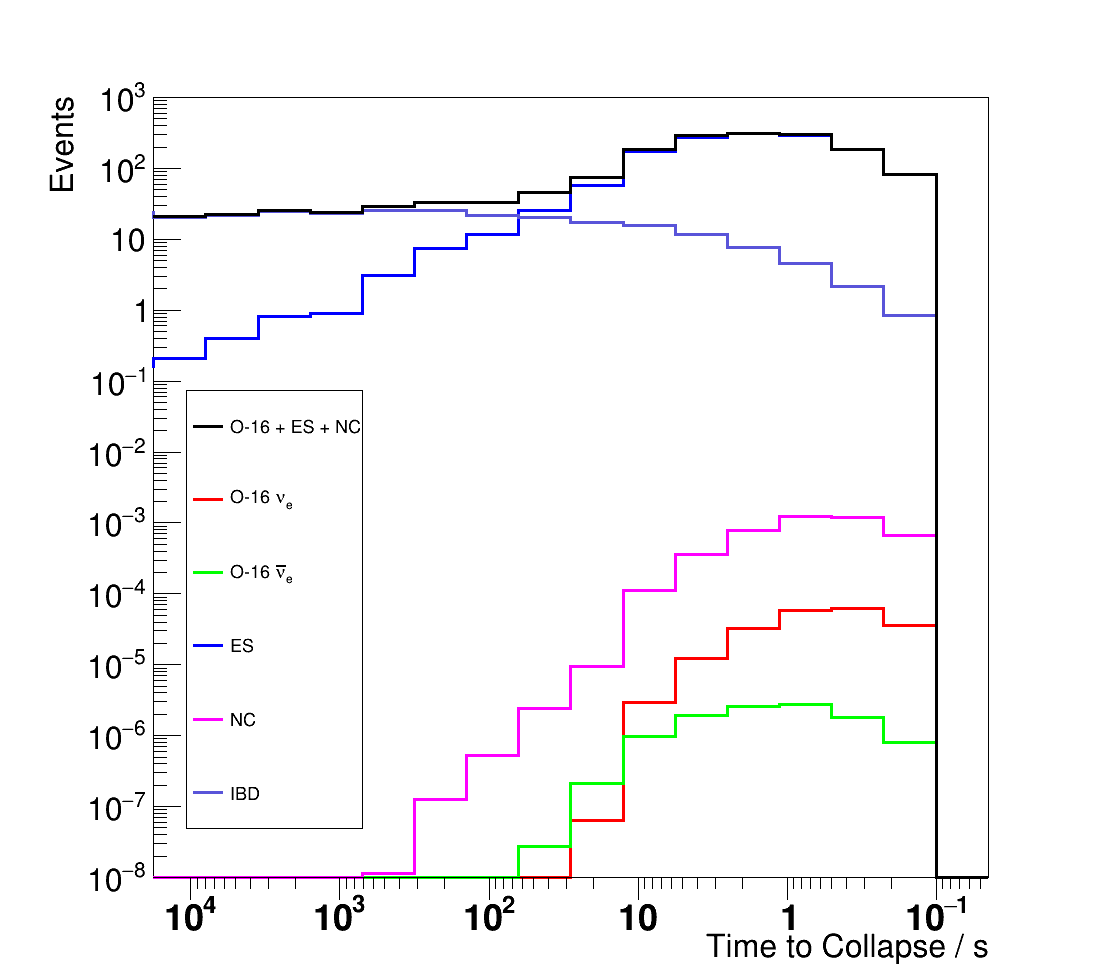
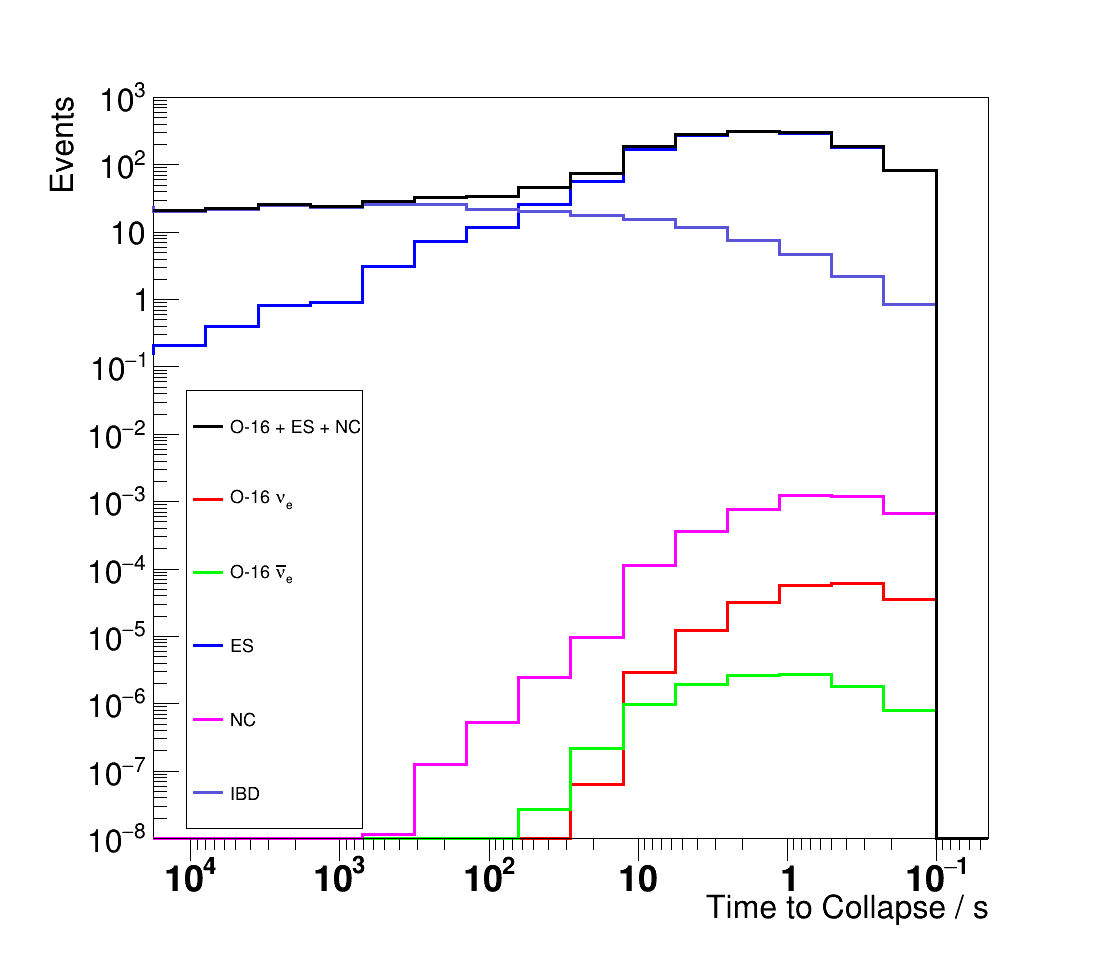
completed energy distribution modification

diff --git a/src/drawHistograms.C b/src/drawHistograms.C
@@ -8,8 +8,11 @@
 #define JUNO_INVERTED_PATH "../output/ROOT/JUNO_inverted.root"
 #define HYPERK_NORMAL_PATH "../output/ROOT/HYPERK_normal.root"
 #define HYPERK_INVERTED_PATH "../output/ROOT/HYPERK_inverted.root"
+// used when scaling old configs to new ones
+#define DUNE_SCALE (40.0/17.0)
+#define JUNO_SCALE (20.0/50.0)
 
-std::vector<TH1D*> * getHists(TFile * file, const std::string* histNames, int numHists){
+std::vector<TH1D*> * getHists(TFile * file, const std::string* histNames, int numHists, double scale){
     std::vector<TH1D*> * ret = new std::vector<TH1D*>;
     for(int i = 0; i < numHists; i++){
         auto object = file->Get(histNames[i].c_str()); 
@@ -18,6 +21,7 @@ std::vector<TH1D*> * getHists(TFile * file, const std::string* histNames, int nu
             exit(1); 
         } 
         auto histo = dynamic_cast<TH1D*>(object); 
+        histo->Scale(scale);
         if (!histo) {
             cerr << "object is not a TH1D\n"; 
             exit(1); 
@@ -25,6 +29,11 @@ std::vector<TH1D*> * getHists(TFile * file, const std::string* histNames, int nu
         ret->push_back(histo);
     }
     return ret;
+}
+
+// overload method such that default scaling is 1
+std::vector<TH1D*> * getHists(TFile * file, const std::string* histNames, int numHists){
+    return getHists(file, histNames, numHists, 1.0);
 }
 
 std::vector<Color_t> color;
@@ -57,11 +66,13 @@ std::vector<std::string> label_HYPERK_inverted;
 
 
 // main macro starts here
-void drawHistograms(){
+void drawHistograms(int use_scaling){
     double DUNE_normal_integral, DUNE_inverted_integral, JUNO_normal_integral, JUNO_inverted_integral, HYPERK_normal_integral, HYPERK_inverted_integral;
     // global variables
     TGaxis::SetMaxDigits(2);
-
+    double dune_scale = use_scaling? DUNE_SCALE : 1.0;
+    double juno_scale = use_scaling? JUNO_SCALE : 1.0;
+    double hyperk_scale = 1.0; // no hyperk scale
     // 12 solar masses SN no oscillation
     
     histNames[0] = "amu_energyIntegral";
@@ -94,7 +105,7 @@ void drawHistograms(){
     histNames[3] = "es_th0_energyIntegral";
 
     file = new TFile(DUNE_NORMAL_PATH);
-    histograms_DUNE_normal = getHists(file, histNames, 4);
+    histograms_DUNE_normal = getHists(file, histNames, 4, dune_scale);
 
     /*
     path = ( "../output/histograms/15sol_DUNE_normal_sum.png");
@@ -134,7 +145,7 @@ void drawHistograms(){
     // DUNE, inverted ordering, smeared, 15 solar masses
     // same histogram names as normal ordering
     file = new TFile(DUNE_INVERTED_PATH);
-    histograms_DUNE_inverted = getHists(file, histNames, 4);
+    histograms_DUNE_inverted = getHists(file, histNames, 4, dune_scale);
 
     /*
     path = ( "../output/histograms/15sol_DUNE_inverted_sum.png");
@@ -178,7 +189,7 @@ void drawHistograms(){
     histNames[5] = "ibd_th0_energyIntegral";
 
     file = new TFile(JUNO_NORMAL_PATH);
-    histograms_JUNO_normal = getHists(file, histNames, 6);
+    histograms_JUNO_normal = getHists(file, histNames, 6, juno_scale);
 
     /*
     path = ( "../output/histograms/15sol_JUNO_normal_sum.png");
@@ -221,7 +232,7 @@ void drawHistograms(){
 
     // JUNO, inverted ordering, smeared, 15 solar masses
     file = new TFile(JUNO_INVERTED_PATH);
-    histograms_JUNO_inverted = getHists(file, histNames, 6);
+    histograms_JUNO_inverted = getHists(file, histNames, 6, juno_scale);
     /*
     path = ( "../output/histograms/15sol_JUNO_inverted_sum.png");
     gROOT->ProcessLine(".x drawSingleSnowHist.C(sum, &path)");
@@ -259,7 +270,7 @@ void drawHistograms(){
 
     // Hyper-K, normal ordering, smeared, 15 solar masses
     file = new TFile("../output/ROOT/HYPERK_normal.root");
-    histograms_HYPERK_normal = getHists(file, histNames, 6);
+    histograms_HYPERK_normal = getHists(file, histNames, 6, hyperk_scale);
     /*
     path = ( "../output/histograms/15sol_HYPERK_normal_sum.png");
     gROOT->ProcessLine(".x drawSingleSnowHist.C(sum, &path)");
@@ -298,7 +309,7 @@ void drawHistograms(){
 
     // Hyper-K, inverted ordering, smeared, 15 solar masses
     file = new TFile("../output/ROOT/HYPERK_inverted.root");
-    histograms_HYPERK_inverted = getHists(file, histNames, 6);
+    histograms_HYPERK_inverted = getHists(file, histNames, 6, hyperk_scale);
 
     /*
     path = ( "../output/histograms/15sol_HYPERK_inverted_sum.png");
@@ -350,4 +361,9 @@ void drawHistograms(){
     std::cout << "Sum normal: " << HYPERK_normal_integral << std::endl;
     std::cout << "Sum inverted: " << HYPERK_inverted_integral << std::endl;
     std::cout << std::endl;
+}
+
+void drawHistograms(){
+    // by default, dont use scaling
+    drawHistograms(0);
 }

diff --git a/src/drawBackground.C b/src/drawBackground.C
@@ -10,6 +10,10 @@ sigmaUp[1][1] = 20;
 sigmaUp[2][0] = 20; 
 sigmaUp[2][1] = 20;
 
+double dune_scale = 40.0/17.0;
+double juno_scale = 20.0/50.0;
+
+
 gStyle->SetOptStat ( 0 );
   gStyle->SetOptTitle ( 0 );
   gStyle->SetCanvasColor(0);
@@ -22,7 +26,7 @@ for ( int i = 0; i < 3; i++ )
   {
     std::string filepath = std::string("../output/ROOT/") + detectors[i] + std::string("_") + ordering[j] + std::string(".root");
     //gROOT->ProcessLine((std::string(".x drawbg.C(\"")+ filepath + "\", \""+ detectors[i]+ "\", \"" +ordering[j]+"\", " + sigmaUp[i][j]+", true)").Data());
-    gROOT->ProcessLine((std::string(".x drawbg.C(\"")+ filepath + "\", \""+ detectors[i]+ "\", \"" +ordering[j]+"\", "+ sigmaUp[i][j]+", false)").Data());
+    gROOT->ProcessLine((std::string(".x drawbg.C(\"")+ filepath + "\", \""+ detectors[i]+ "\", \"" +ordering[j]+"\", "+ sigmaUp[i][j]+", false, 1.0)").Data());
     gROOT->ProcessLine((std::string(".x bgdist.C(\"")+ filepath + "\", \""+ detectors[i]+ "\", \"" +ordering[j]+"\", 10.)").c_str());      
   }
 }

diff --git a/src/drawbg.C b/src/drawbg.C
@@ -1,6 +1,6 @@
 #include <iomanip>
 #include <string>
-void drawbg(std::string filepath, std::string detector, std::string ordering, double sigmaUp, bool include_bg)
+void drawbg(std::string filepath, std::string detector, std::string ordering, double sigmaUp, bool include_bg, double scale)
 {
     // array of backgrounds [1/s]
     const int bgl = 7;
@@ -54,6 +54,7 @@ void drawbg(std::string filepath, std::string detector, std::string ordering, do
             canvas->cd(j);
 
             TH1D *hist = (TH1D *)file.Get(histname.c_str());
+            hist->Scale(scale);
             TH1D *bg = (TH1D *)file.Get(bgname.c_str());
 
             hist->SetStats(0);
